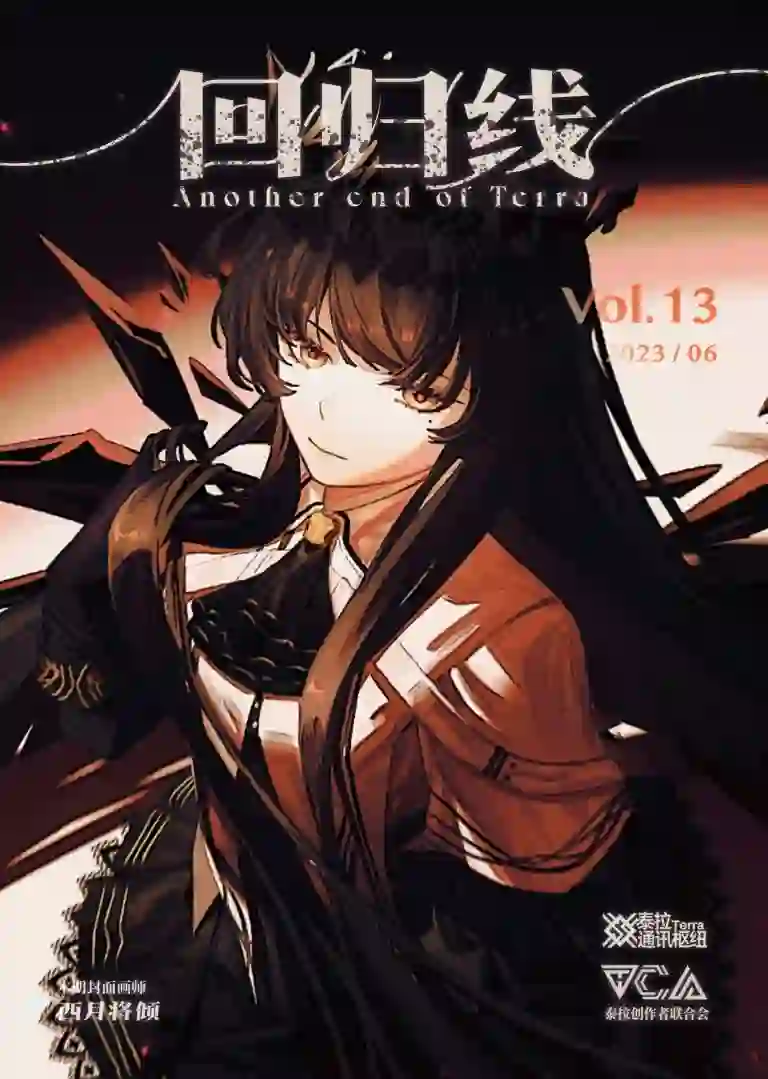
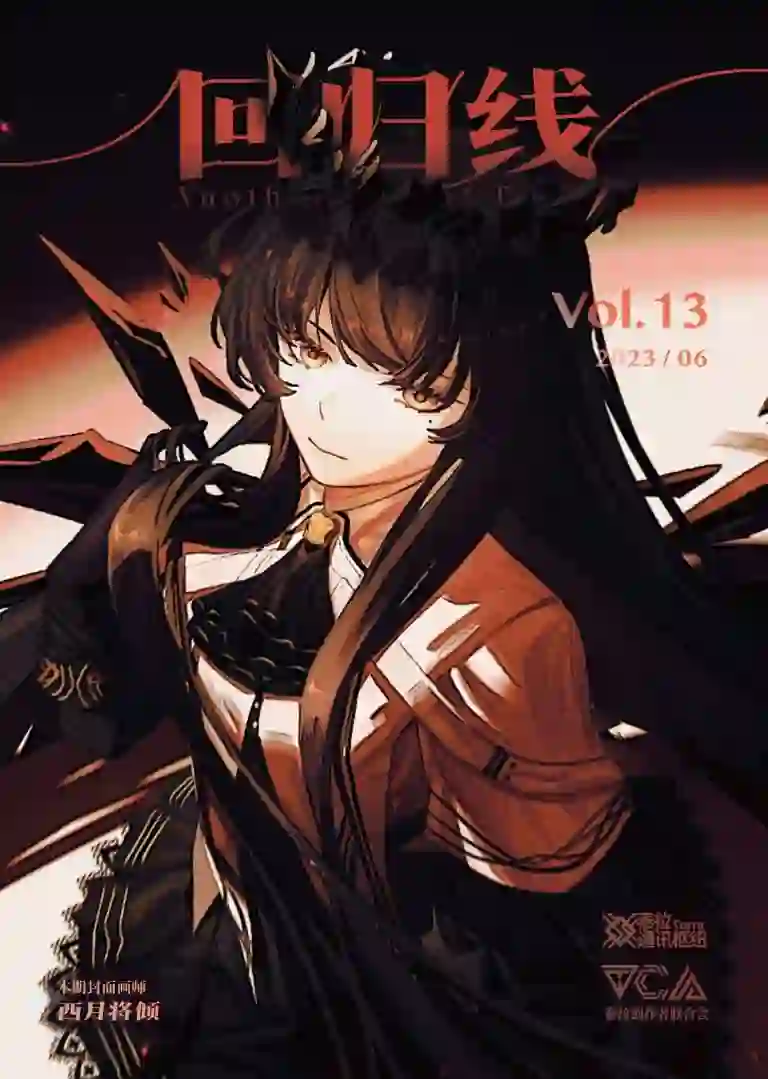
跟随原仓库的热修复(574dd45=>4e160dc)

diff --git a/src/wwwroot/download.md b/src/wwwroot/download.md
@@ -33,8 +33,7 @@ order: -5
 
 | 文件名称 | 下载地址1 | 下载地址2 | 下载地址3 | 网盘下载 |
 |:-:|:-:|:-:|:-:|:-:|
-| Vol.03 2022年08月号 | [点击下载](https://ghproxy.com/https://raw.githubusercontent.com/TCA-Arknightsaneot-pdf/main/回归线Vol.03_22-08.pdf) | [点击下载](https://cdn.jsdelivr.net/gh/TCA-Arknights/aneot-pdf@main/回归线Vol.03_22-08.pdf) | [点击下载](https://raw.githubusercontent.com/TCA-Arknights/aneot-pdf/main/回归线Vol.03_22-08.pdf
-) | [密码:42tz](https://wwb.lanzouy.com/b011ya7gf) |
+| Vol.03 2022年08月号 | [点击下载](https://ghproxy.com/https://raw.githubusercontent.com/TCA-Arknightsaneot-pdf/main/回归线Vol.03_22-08.pdf) | [点击下载](https://cdn.jsdelivr.net/gh/TCA-Arknights/aneot-pdf@main/回归线Vol.03_22-08.pdf) | [点击下载](https://raw.githubusercontent.com/TCA-Arknights/aneot-pdf/main/回归线Vol.03_22-08.pdf) | [密码:42tz](https://wwb.lanzouy.com/b011ya7gf) |
 
 ## Vol.04 2022年09月号
 

diff --git a/src/wwwroot/Homepage.md b/src/wwwroot/Homepage.md
@@ -8,7 +8,7 @@ heroFullScreen: false
 # 在这里修改抬头画师
 tagline: © 西月将倾 2023 · 06
 # 在这里修改版头主题色
-heroAlt: '#c14e33'
+heroAlt: '#bd3b2e'
 projects:
   - icon: read
     name: 卷首
@@ -47,7 +47,7 @@ projects:
 
   - icon: write
     name: 联系我们
-    desc: Content Us
+    desc: Contact Us
     link: mailto:TCA_doc@163.com
 
   # - icon: /logo.svg
